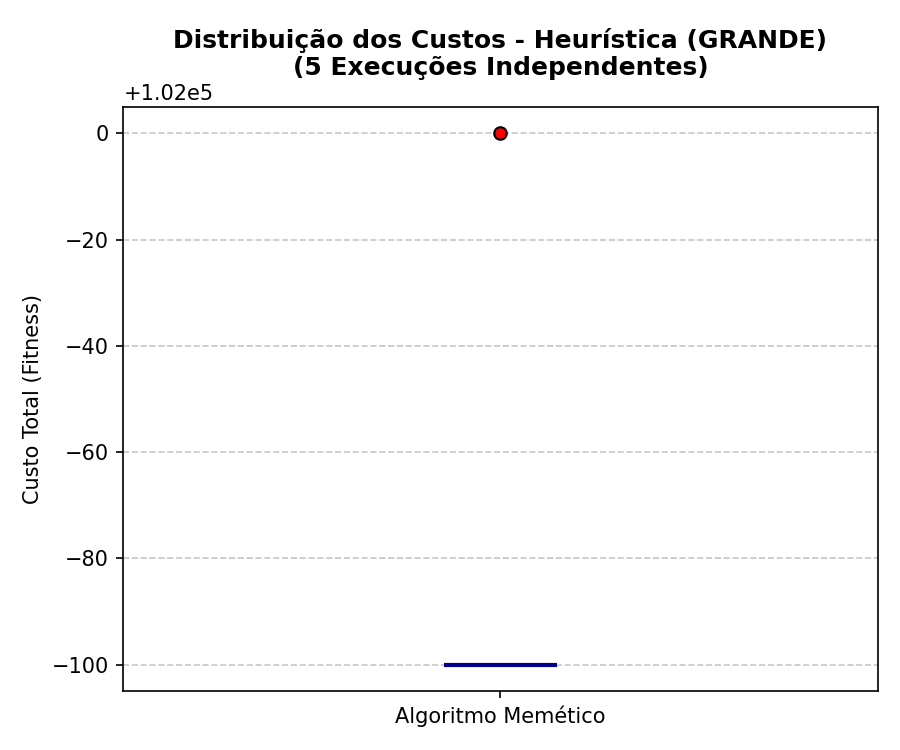
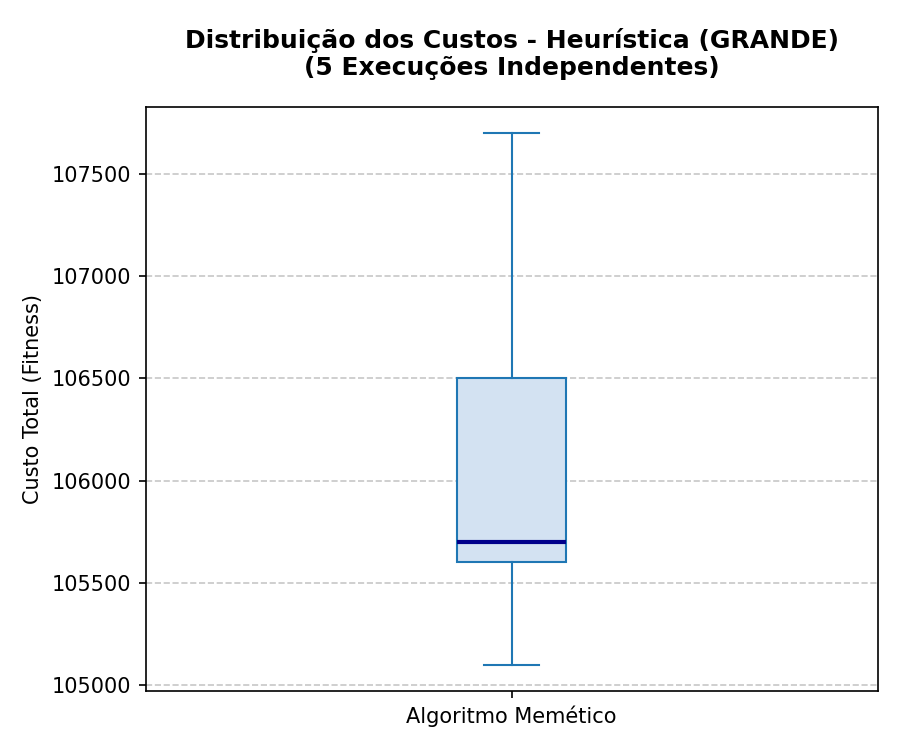
Atualização dos resultados

diff --git a/src/run_experiments.py b/src/run_experiments.py
@@ -1,11 +1,11 @@
 # Roda os experimentos acadêmicos de comparação entre o Gurobi e a heurística memética (X rodadas independentes).
-
 import sys
 import os
 import time
 import csv
 import statistics
 
+# Configura o matplotlib para rodar de forma headless (seguro contra travamento de display)
 import matplotlib
 matplotlib.use('Agg')
 import matplotlib.pyplot as plt
@@ -43,7 +43,7 @@ def main():
     # =========================================================================
     tipo_instancia = "pequeno"  # Cenário padrão entre ("pequeno", "medio", "grande", "muito_grande")
     num_repeticoes = 5          # Valor padrão em unidades
-    limite_tempo_heur = 60    # Valor padrão em segundos
+    limite_tempo_heur = 60      # Valor padrão em segundos
     
     # Captura o primeiro argumento (cenário)
     if len(sys.argv) > 1:
@@ -59,10 +59,10 @@ def main():
         try:
             num_repeticoes = int(sys.argv[2])
             if num_repeticoes <= 0:
-                print("Aviso: O número de repetições deve ser maior que 0. Usando padrão 5.\n")
+                print("Aviso: O número de repetições deve ser maior que 0. Usando padrão 5.\\n")
                 num_repeticoes = 5
         except ValueError:
-            print(f"Aviso: '{sys.argv[2]}' não é um número válido para repetições. Usando padrão 5.\n")
+            print(f"Aviso: '{sys.argv[2]}' não é um número válido para repetições. Usando padrão 5.\\n")
             num_repeticoes = 5
 
     # Captura o terceiro argumento (limite de tempo por rodada da heurística)
@@ -70,10 +70,10 @@ def main():
         try:
             limite_tempo_heur = float(sys.argv[3])
             if limite_tempo_heur <= 0:
-                print("Aviso: O limite de tempo deve ser maior que 0. Usando padrão 'Sem limite'.\n")
+                print("Aviso: O limite de tempo deve ser maior que 0. Usando padrão 'Sem limite'.\\n")
                 limite_tempo_heur = None
         except ValueError:
-            print(f"Aviso: '{sys.argv[3]}' não é um limite de tempo válido. Usando padrão 'Sem limite'.\n")
+            print(f"Aviso: '{sys.argv[3]}' não é um limite de tempo válido. Usando padrão 'Sem limite'.\\n")
             limite_tempo_heur = None
 
     caminho_dados = os.path.join("data", tipo_instancia)
@@ -106,12 +106,11 @@ def main():
     custos_gurobi = converter_e_avaliar_gurobi(
         gurobi_res, tempo_gurobi, pacientes, quartos, dias_paciente, genero_paciente, capacidade, custo_estatico, pesos
     )
-
+    
     # Resultado
     gurobi_fit = custos_gurobi.get('total')
     gurobi_fit_str = f"{gurobi_fit:.1f}" if isinstance(gurobi_fit, float) else str(gurobi_fit)
     print(f"  > Gurobi concluído  | Fitness: {gurobi_fit_str:<7} | Tempo: {tempo_gurobi:.4f} s")
-
 
     # 3. Executa a Heurística Memética N vezes
     print(f"\n[2/2] Executando Algoritmo Memético ({num_repeticoes} rodadas independentes)...")
@@ -127,7 +126,7 @@ def main():
         t_inicio = time.time()
         
         melhor_sol, hist_progresso = resolver_algoritmo_memetico(
-            params, horizonte_dias, geracoes=30, tam_pop=20, verbose=False, retornar_historico=True, limite_tempo=limite_tempo_heur
+            params, horizonte_dias, geracoes=80, tam_pop=30, verbose=False, retornar_historico=True, limite_tempo=limite_tempo_heur
         )
         
         tempo_total = time.time() - t_inicio
@@ -164,6 +163,13 @@ def main():
     media_fit = statistics.mean(fitness_runs)
     desvio_fit = safe_stdev(fitness_runs)
 
+    # Estatísticas do Ponto Inicial (Geração 00)
+    inicial_runs = [progresso[0] for progresso in progressoes_runs]
+    media_inicial = statistics.mean(inicial_runs)
+    desvio_inicial = safe_stdev(inicial_runs)
+    comp_inicial_melhor_str = formatar_valor(historico_melhor_progresso[0])
+    comp_inicial_media_str = f"{media_inicial:.1f} (±{desvio_inicial:.1f})"
+
     # Prepara strings formatadas da Heurística para exibição
     tempo_gurobi_str = formatar_float(custos_gurobi.get('tempo'), 4) + " s"
     tempo_heur_melhor_str = f"{melhor_run_dados['tempo']:.4f} s"
@@ -186,6 +192,7 @@ def main():
     print(f"{'Penalidades por Quarto Misto':<32} | {formatar_valor(custos_gurobi.get('genero')):<14} | {melhor_run_dados['genero']:<14} | {statistics.mean([x['genero'] for x in historico_runs]):.1f} (±{safe_stdev([x['genero'] for x in historico_runs]):.1f})")
     print(f"{'Penalidades por Excesso de Leito':<32} | {formatar_valor(custos_gurobi.get('capacidade')):<14} | {melhor_run_dados['capacidade']:<14} | {statistics.mean([x['capacidade'] for x in historico_runs]):.1f} (±{safe_stdev([x['capacidade'] for x in historico_runs]):.1f})")
     print("-" * 90)
+    print(f"{'Custo Inicial (Geração 00)':<32} | {'NULL':<14} | {comp_inicial_melhor_str:<14} | {comp_inicial_media_str:<22}")
     print(f"{'CUSTO TOTAL (FUNÇÃO OBJETIVO)':<32} | {formatar_valor(custos_gurobi.get('total')):<14} | {melhor_run_dados['total']:<14} | {media_fit:.1f} (±{desvio_fit:.1f})")
     print("-" * 90)
     print(f"{'Tempo de Processamento':<32} | {tempo_gurobi_str:<14} | {tempo_heur_melhor_str:<14} | {tempo_heur_media_str:<22}")
@@ -257,8 +264,14 @@ def main():
 
     # Progresso da Convergência (Melhor Execução)
     plt.figure(figsize=(8, 4.5))
-    plt.plot(historico_melhor_progresso, color='#1F77B4', linewidth=2.5, label='Evolução do Custo')
+    plt.plot(historico_melhor_progresso, color='#1F77B4', linewidth=2.5, label='Evolução do Custo (Heurística)')
     
+    # Adiciona linha do Gurobi (se disponível)
+    gurobi_plotado = False
+    if isinstance(gurobi_fit, (int, float)):
+        plt.axhline(y=gurobi_fit, color='red', linestyle='--', linewidth=1.8, label=f'Gurobi (Exato): {gurobi_fit_str}')
+        gurobi_plotado = True
+
     plt.title(f'Progresso da Convergência (Melhor Execução) - {tipo_instancia.upper()}', fontsize=12, fontweight='bold', pad=15)
     plt.xlabel('Geração', fontsize=10)
     plt.ylabel('Custo Total (Fitness)', fontsize=10)
@@ -274,9 +287,32 @@ def main():
     plt.savefig(caminho_conv, dpi=150)
     plt.close()
 
+    # Progresso da Convergência (Todas as Execuções)
+    plt.figure(figsize=(8, 4.5))
+    for r_idx, progresso in enumerate(progressoes_runs):
+        if r_idx == 0:
+            plt.plot(progresso, color='#1F77B4', alpha=0.4, linewidth=1.5, label='Heurística (Rodadas)')
+        else:
+            plt.plot(progresso, color='#1F77B4', alpha=0.4, linewidth=1.5)
+            
+    if gurobi_plotado:
+        plt.axhline(y=gurobi_fit, color='red', linestyle='--', linewidth=1.8, label=f'Gurobi (Exato): {gurobi_fit_str}')
+        
+    plt.title(f'Progresso da Convergência (Todas as Execuções) - {tipo_instancia.upper()}', fontsize=12, fontweight='bold', pad=15)
+    plt.xlabel('Geração', fontsize=10)
+    plt.ylabel('Custo Total (Fitness)', fontsize=10)
+    plt.grid(True, linestyle='--', alpha=0.5)
+    plt.legend(frameon=True, facecolor='white', edgecolor='none')
+    plt.tight_layout()
+    
+    caminho_conv_todas = os.path.join(pasta_saida, "convergencia_todas.png")
+    plt.savefig(caminho_conv_todas, dpi=150)
+    plt.close()
+
     print(f"[OK] Gráficos exportados com sucesso em '{pasta_saida}/':")
     print(f"  - boxplot.png")
     print(f"  - convergencia.png")
+    print(f"  - convergencia_todas.png")
 
 if __name__ == "__main__":
     main()
